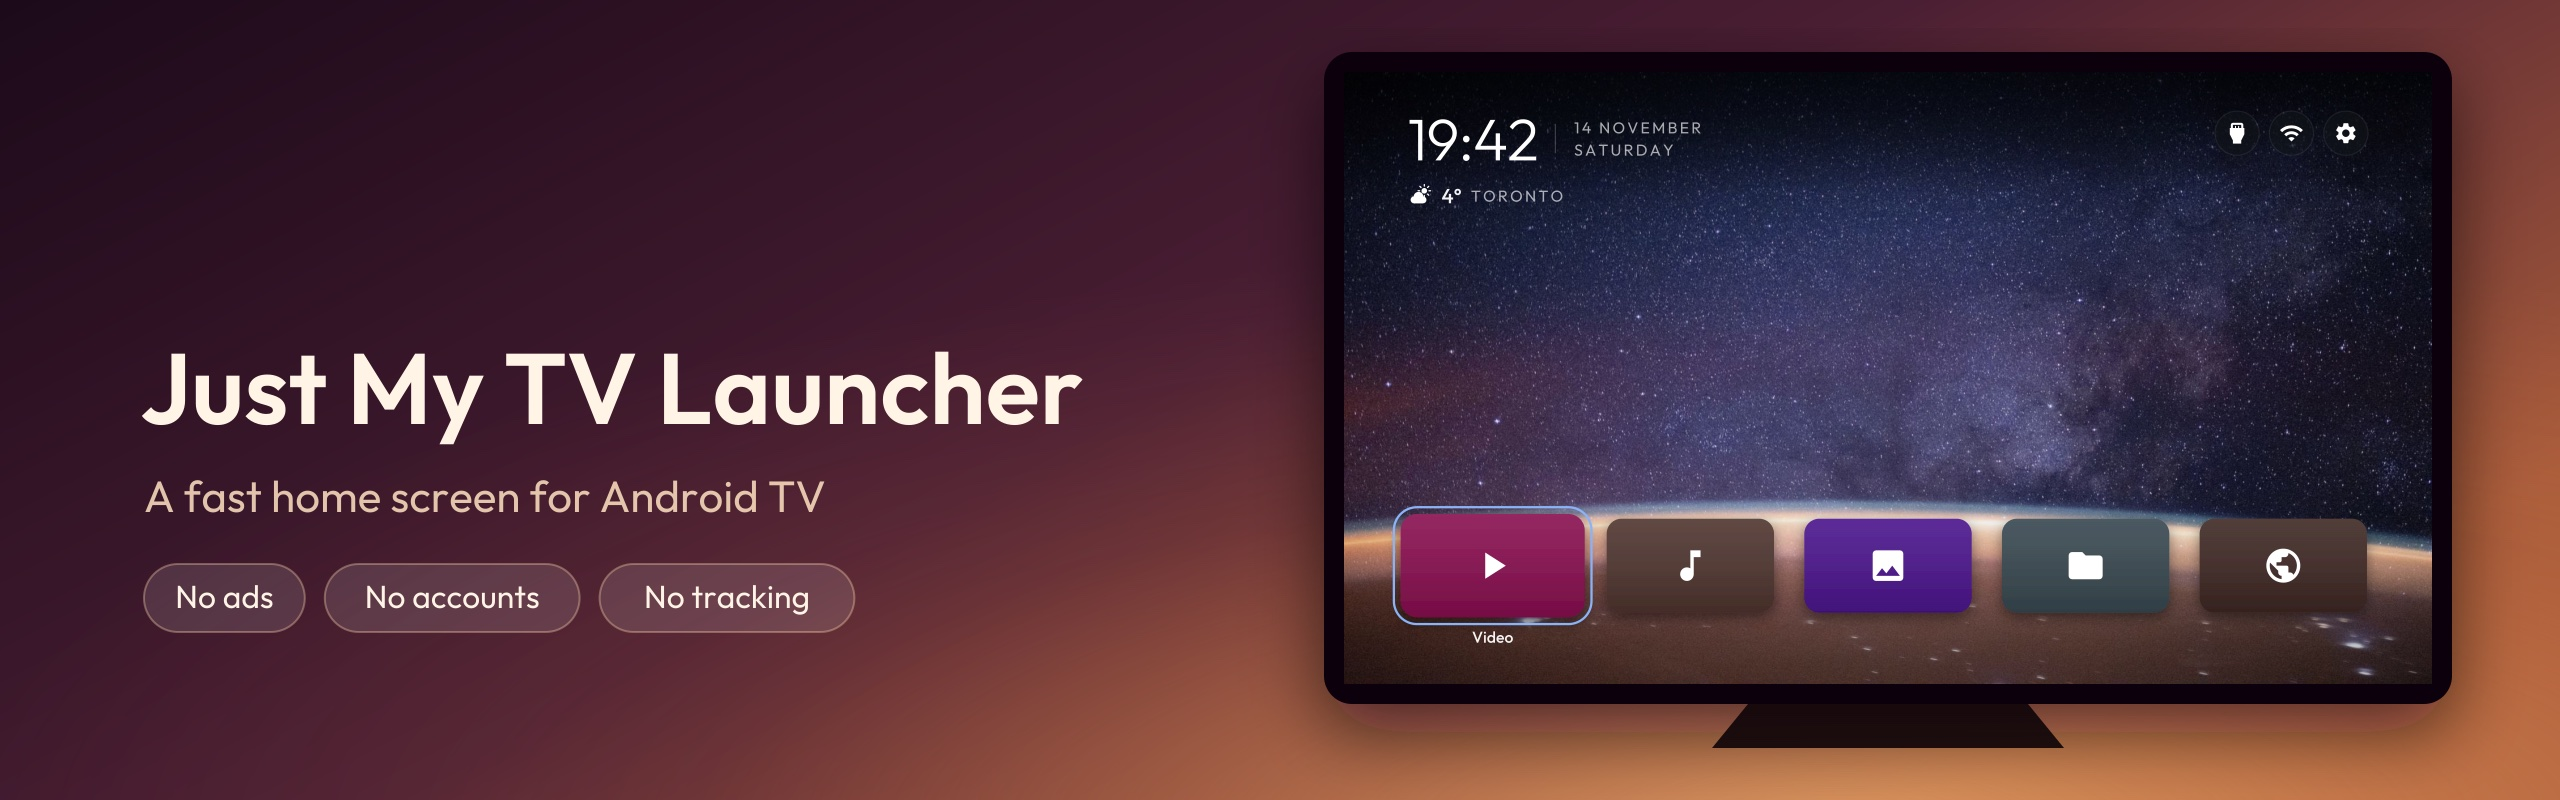
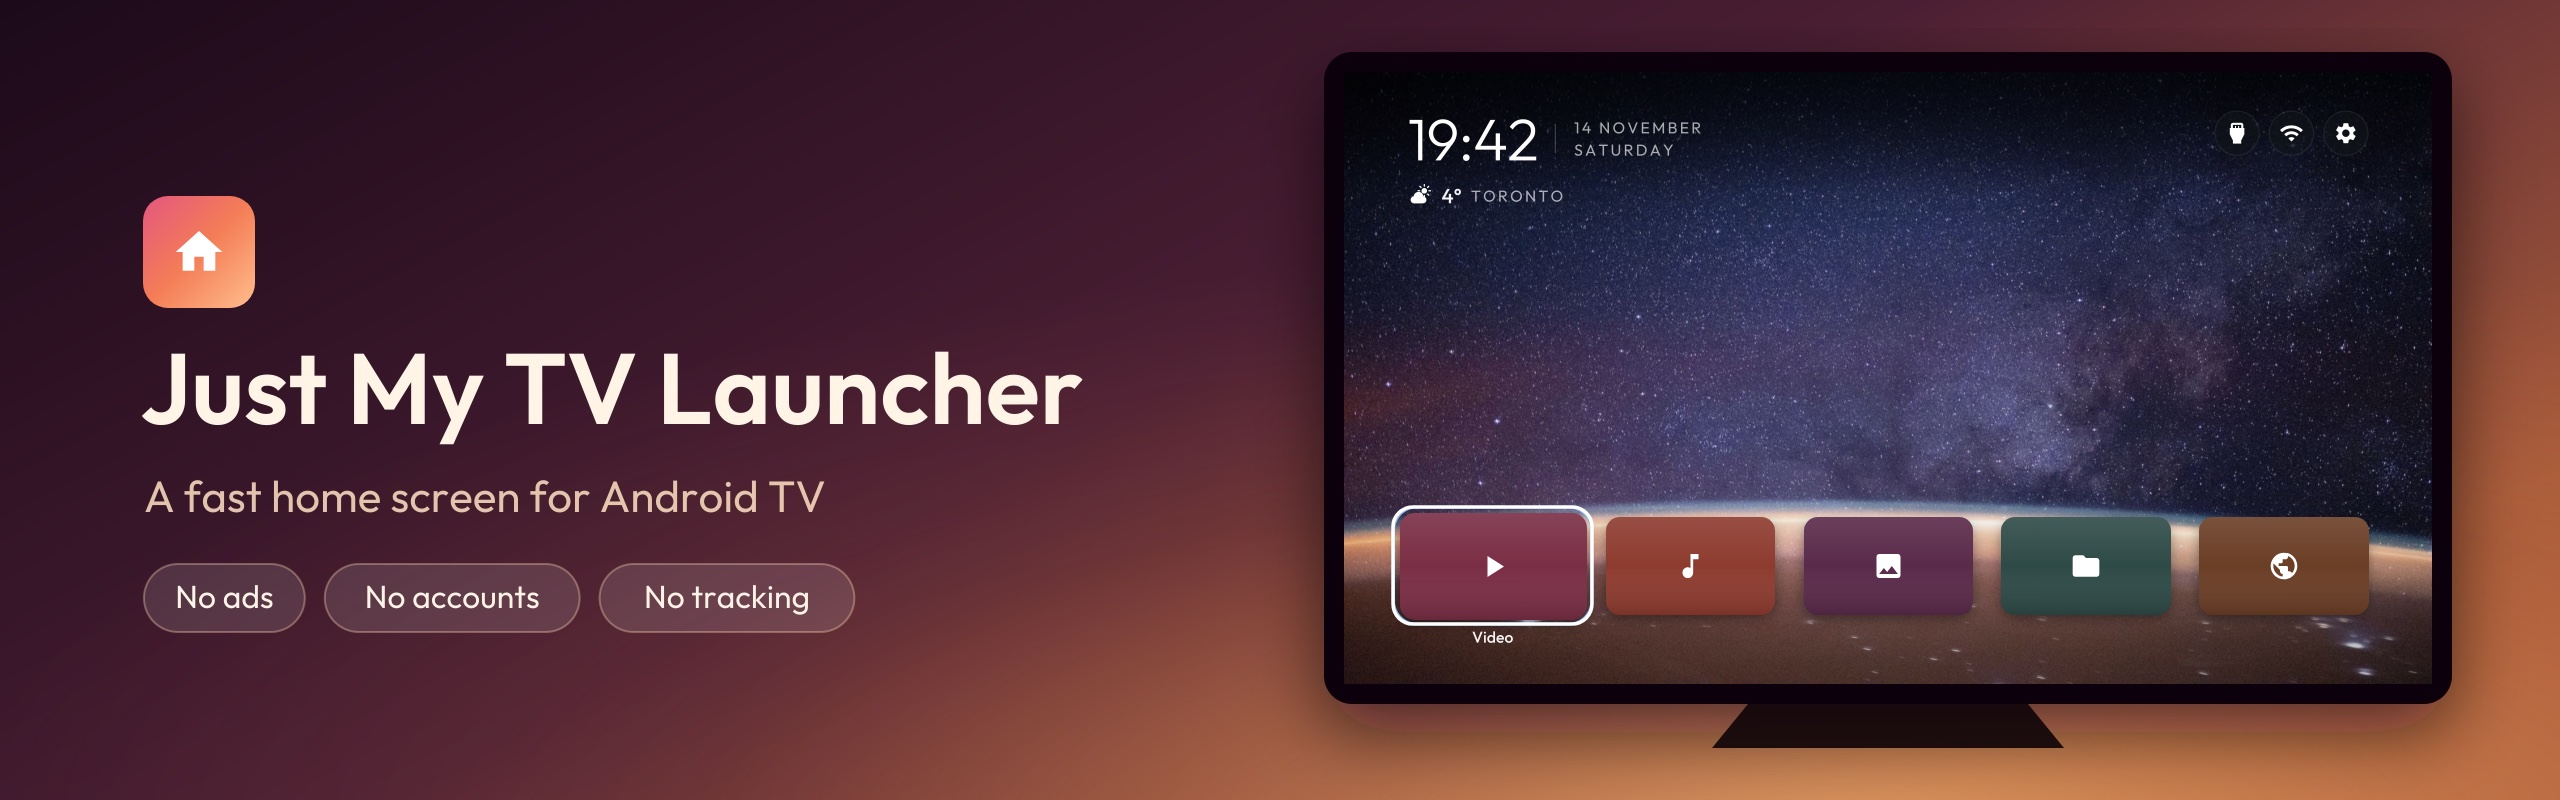
Apply the Sunset colour scheme across the app and the repo
One set of colours (D110). The icon, the TV banner, the README logo and
the social preview use the brand gradient rose #E4577F, coral #F47D56,
peach #FFBE8E (drawable/sunset.xml). The default wallpaper is the deeper
Dusk gradient plum, wine, ember (aurora.xml renamed to dusk.xml), deep
enough for white text. Panels, menus and round buttons take warm
neutrals, the focused row is coral at 22 %, primary text is cream. Move
mode is coral, the stale weather dot peach, "connected" a softer green,
and the tile placeholders a warm palette.

The README pictures are recoloured to match, with the logo in the hero;
docs/images/social-preview.png is for GitHub's settings, uploaded by
hand. The mockup and the user guide follow; the Accent test checks that
Dusk gives a warm ring.

Changed region(s): [[0.5312, 0.625, 0.7812, 0.7812], [0.8438, 0.625, 0.9375, 0.7812], [0.0312, 0.2188, 0.125, 0.4062]]

diff --git a/docs/screen-mockup.html b/docs/screen-mockup.html
@@ -7,8 +7,8 @@
 <style>
   :root {
     color-scheme: dark;
-    --accent: #8AB4F8;
-    --tile: #1C1C1E;
+    --accent: #F47D56;   /* Sunset coral (D110); the real ring follows the wallpaper */
+    --tile: #1F1820;
     --band: rgba(20, 20, 22, .86);
     --panel: rgba(30, 32, 38, .94);
     --text: rgba(255, 255, 255, .95);
@@ -32,7 +32,7 @@
     background:
       radial-gradient(900px 420px at 78% 110%, rgba(128,208,199,.55), transparent 60%),
       radial-gradient(700px 380px at 12% 0%, rgba(19,84,122,.9), transparent 70%),
-      linear-gradient(160deg, #13547A 0%, #2B825B 55%, #80D0C7 100%); }
+      linear-gradient(160deg, #2A1533 0%, #7E3459 55%, #D9714C 100%); }
   .video .tag { position: absolute; right: 16px; top: 250px; font-size: 11px; color: rgba(255,255,255,.6); }
   /* Dimming only at the top (60 % → 0 by 20 %), like ScrimTop in Couchy. */
   .scrim { position: absolute; inset: 0;
@@ -207,7 +207,7 @@
   <tr><td>Bar at rest</td><td>top 386.5 dp, row height 127.5 dp; the next row peeks up 18 dp from below</td><td><code>MainActivity.java:706–709</code>: "push the dock row towards the bottom"</td></tr>
   <tr><td>Rows under the bar</td><td>0 at rest (<code>rows_below_dock</code> = 0); the next row peeks in from below; on Down the grid expands</td><td><code>config.xml:413</code>, "the rest of the grid stays below until you press Down"</td></tr>
   <tr><td>Columns</td><td>5 at 960 dp: tile 147 × 83 dp, radius 13 dp</td><td><code>AppAdapter.java:108–114</code></td></tr>
-  <tr><td>Focus</td><td>scale 1.10, 2 dp ring #8AB4F8</td><td><code>AppCard.kt</code>, <code>AppAdapter.FOCUS_SCALE</code></td></tr>
+  <tr><td>Focus</td><td>scale 1.10, 2 dp ring in a light shade of the wallpaper, white on dark (Sunset coral #F47D56 here)</td><td><code>AppCard.kt</code>, <code>AppAdapter.FOCUS_SCALE</code></td></tr>
   <tr><td>Bar strip</td><td>#141416 at 86 %, radius 26 dp, 22 dp margin on each side, 14 dp at the top and bottom</td><td><code>DockDecoration.java</code></td></tr>
   <tr><td>Bottom edge</td><td>bottom of the screen (540 dp); dimming only at the top</td><td>Couchy <code>ScrimTop</code> (<code>LauncherScreen.kt:118–121</code>)</td></tr>
   <tr><td>Panel</td><td>440 dp, 260 ms slide, 16 dp radius on the left</td><td><code>SettingsSheet.kt:183–199</code> (Couchy)</td></tr>

diff --git a/launcher/app/src/main/java/com/evg4b/justmytv/MainActivity.java b/launcher/app/src/main/java/com/evg4b/justmytv/MainActivity.java
@@ -277,7 +277,7 @@ public class MainActivity extends Activity implements AppAdapter.Listener {
                 ui.post(() -> {
                     if (gen != wallpaperGen) return;
                     if (b != null) poster.setImageBitmap(b);
-                    else poster.setImageResource(R.drawable.aurora);   // the file is gone or unreadable: not black
+                    else poster.setImageResource(R.drawable.dusk);   // the file is gone or unreadable: not black
                 });
             });
         } else if (type.equals("video") && !state.videoUri.isEmpty()) {
@@ -304,7 +304,7 @@ public class MainActivity extends Activity implements AppAdapter.Listener {
      * come); otherwise black, so a video or picture comes up from black, never over the gradient.
      */
     private void resetPoster() {
-        if (showsGradient()) poster.setImageResource(R.drawable.aurora);
+        if (showsGradient()) poster.setImageResource(R.drawable.dusk);
         else poster.setImageDrawable(new ColorDrawable(Color.BLACK));
     }
 
@@ -357,7 +357,7 @@ public class MainActivity extends Activity implements AppAdapter.Listener {
 
     /** Offline, or no clip matches the chosen collection and themes: a still gradient, no requests (PLAN 6.3). */
     private void playAerials(List<String> urls) {
-        if (urls.isEmpty() || !online()) poster.setImageResource(R.drawable.aurora);
+        if (urls.isEmpty() || !online()) poster.setImageResource(R.drawable.dusk);
         else video.startAerials(urls);
     }
 

diff --git a/launcher/app/src/main/java/com/evg4b/justmytv/SidePanel.java b/launcher/app/src/main/java/com/evg4b/justmytv/SidePanel.java
@@ -138,7 +138,7 @@ final class SidePanel {
     // ---- building blocks ----
 
     void title(String text) {
-        TextView t = text(text, 22, 0xF2FFFFFF, R.font.outfit_medium);
+        TextView t = text(text, 22, 0xF2F4F1EE, R.font.outfit_medium);
         t.setPadding(Math.round(12 * d), 0, 0, Math.round(16 * d));
         content.addView(t);
     }
@@ -174,7 +174,7 @@ final class SidePanel {
             lp.setMarginEnd(p);
             row.addView(iv, lp);
         }
-        TextView l = text(label, 17, 0xF2FFFFFF, R.font.outfit_regular);
+        TextView l = text(label, 17, 0xF2F4F1EE, R.font.outfit_regular);
         l.setSingleLine(true);
         l.setEllipsize(android.text.TextUtils.TruncateAt.END);
         row.addView(l, new LinearLayout.LayoutParams(0, ViewGroup.LayoutParams.WRAP_CONTENT, 1f));
@@ -193,7 +193,7 @@ final class SidePanel {
         e.setHint(hint);
         e.setText(text);
         e.setTextSize(TypedValue.COMPLEX_UNIT_SP, 17);
-        e.setTextColor(0xF2FFFFFF);
+        e.setTextColor(0xF2F4F1EE);
         e.setHintTextColor(0x8CFFFFFF);
         e.setTypeface(ctx.getResources().getFont(R.font.outfit_regular));
         e.setBackgroundResource(R.drawable.row_bg);

diff --git a/launcher/app/src/main/java/com/evg4b/justmytv/PhotoWallpaper.java b/launcher/app/src/main/java/com/evg4b/justmytv/PhotoWallpaper.java
@@ -107,7 +107,7 @@ final class PhotoWallpaper {
         }
         if (key.isEmpty()) {   // nothing can be fetched; the kept photo stays, or the gradient
             status = Status.NO_KEY;
-            if (!photo.exists()) poster.setImageResource(R.drawable.aurora);
+            if (!photo.exists()) poster.setImageResource(R.drawable.dusk);
             return;
         }
         String k = key;
@@ -209,7 +209,7 @@ final class PhotoWallpaper {
                 fetching = false;
                 changed.run();
                 if (b != null) show(b, at, true);
-                else if (!photo.exists()) poster.setImageResource(R.drawable.aurora);   // nothing to show: not black
+                else if (!photo.exists()) poster.setImageResource(R.drawable.dusk);   // nothing to show: not black
                 // a rejected key waits for a new one (a new start); the limit resets within the hour
                 if (status != Status.BAD_KEY) {
                     main.postDelayed(tick, b != null ? everyMs : status == Status.LIMIT ? LIMIT_MS : RETRY_MS);

diff --git a/launcher/app/src/test/java/com/evg4b/justmytv/AccentTest.java b/launcher/app/src/test/java/com/evg4b/justmytv/AccentTest.java
@@ -28,7 +28,16 @@ public class AccentTest {
         assertTrue(r < g && g < b && r >= 130);   // light, not the deep blue itself
     }
 
-    @Test public void auroraGivesTeal() {   // the gradient's three colours (res/drawable/aurora.xml)
+    @Test public void duskGivesARose() {   // the default wallpaper's three colours (res/drawable/dusk.xml)
+        int[] p = fill(0xFF2A1533);
+        Arrays.fill(p, p.length / 3, 2 * p.length / 3, 0xFF7E3459);
+        Arrays.fill(p, 2 * p.length / 3, p.length, 0xFFD9714C);
+        int c = Accent.of(p);
+        int r = (c >> 16) & 0xFF, g = (c >> 8) & 0xFF, b = c & 0xFF;
+        assertTrue(r == 255 && r > g && r > b);   // warm: red leads
+    }
+
+    @Test public void tealStaysTeal() {   // the old Aurora gradient: a cool wallpaper still gives a cool ring
         int[] p = fill(0xFF13547A);
         Arrays.fill(p, p.length / 3, 2 * p.length / 3, 0xFF2B825B);
         Arrays.fill(p, 2 * p.length / 3, p.length, 0xFF80D0C7);

diff --git a/launcher/app/src/main/java/com/evg4b/justmytv/AppAdapter.java b/launcher/app/src/main/java/com/evg4b/justmytv/AppAdapter.java
@@ -31,9 +31,9 @@ final class AppAdapter extends RecyclerView.Adapter<AppAdapter.Holder> {
     }
 
     /** Tile colours for apps without a banner (PLAN 5.3). */
-    private static final int[] PALETTE = {0xFF37474F, 0xFF4E342E, 0xFF1B5E20, 0xFF0D47A1, 0xFF4A148C,
-            0xFF880E4F, 0xFF3E2723, 0xFF263238, 0xFF33691E};
-    private static final int BANNER_BG = 0xFF1C1C1E;
+    private static final int[] PALETTE = {0xFF5A2A4A, 0xFF7A2E45, 0xFF8E3B2F, 0xFF6B3E26, 0xFF7A4A2A,   // Sunset tiles (D110)
+            0xFF3E2A4F, 0xFF4A3B35, 0xFF2F3A4A, 0xFF2E4A47};
+    private static final int BANNER_BG = 0xFF1F1820;
 
     private final GridMetrics m;
     private final int columns;

diff --git a/launcher/app/src/main/java/com/evg4b/justmytv/FocusGlass.java b/launcher/app/src/main/java/com/evg4b/justmytv/FocusGlass.java
@@ -83,10 +83,10 @@ final class FocusGlass {
         ring.setCornerRadius(cornerPx * GridMetrics.FOCUS_SCALE + pad);
     }
 
-    /** Move mode shows an amber ring instead of the accent. */
+    /** Move mode shows a coral ring instead of the accent. */
     void setMoving(boolean moving) {
         this.moving = moving;
-        ring.setStroke(stroke, moving ? 0xFFFFB74D : shownColor);
+        ring.setStroke(stroke, moving ? 0xFFF47D56 : shownColor);
     }
 
     /** The accent follows what is on screen: a wallpaper drawable, or a frame of the video. */

diff --git a/launcher/app/src/main/java/com/evg4b/justmytv/Screens.java b/launcher/app/src/main/java/com/evg4b/justmytv/Screens.java
@@ -459,6 +459,6 @@ final class Screens {
             if (Inputs.switchTo(a, r.id)) panel.close();
             else Toast.makeText(a, R.string.input_not_opened, Toast.LENGTH_SHORT).show();
         });
-        v.setTextColor(r.state == 0 ? 0xFF66BB6A : r.state == 1 ? 0xFF9E9E9E : 0x40FFFFFF);
+        v.setTextColor(r.state == 0 ? 0xFF7CC08A : r.state == 1 ? 0xFF9E9E9E : 0x40FFFFFF);
     }
 }

diff --git a/launcher/app/src/main/java/com/evg4b/justmytv/VideoWallpaper.java b/launcher/app/src/main/java/com/evg4b/justmytv/VideoWallpaper.java
@@ -275,7 +275,7 @@ final class VideoWallpaper {
             player.release();
             player = null;
         }
-        if (aerials != null) poster.setImageResource(R.drawable.aurora);   // no aerial plays: a still gradient, not black
+        if (aerials != null) poster.setImageResource(R.drawable.dusk);   // no aerial plays: a still gradient, not black
         showPoster();
     }
 }

diff --git a/launcher/app/src/main/java/com/evg4b/justmytv/TileMenu.java b/launcher/app/src/main/java/com/evg4b/justmytv/TileMenu.java
@@ -51,7 +51,7 @@ final class TileMenu {
         TextView t = new TextView(ctx);
         t.setText(text);
         t.setTextSize(TypedValue.COMPLEX_UNIT_SP, 17);
-        t.setTextColor(0xF2FFFFFF);
+        t.setTextColor(0xF2F4F1EE);
         t.setTypeface(ctx.getResources().getFont(R.font.outfit_regular));
         t.setGravity(Gravity.CENTER_VERTICAL);
         t.setSingleLine(true);

diff --git a/docs/DECISIONS.md b/docs/DECISIONS.md
@@ -181,3 +181,4 @@ Decisions taken while fixing the review findings in PLAN v2. None of them change
 | D107 | Remote actions reworked. Launcher settings and Inputs start a Home intent (MAIN + HOME, our package, an extra naming the panel) and toggle the panel, as the Menu key does; a plain Home press with Home in front closes the panel and ends Move mode; Network and Wi-Fi, Picture and Sound settings fall back to the TV's main settings when the page is missing; Mute goes through `adjustSuggestedStreamVolume`, the path of the remote's own Mute key; Play / pause events carry real timestamps. **Revises D106** | An explicit intent to the Home activity gets the standard activity type, so `singleTask` cannot reuse the Home instance: each press made a second launcher in its own task. A second press now closes what the first opened. Found by code review; on the TV (T20) one record stays after the action from another app | PLAN 7.8 |
 | D108 | The network icon at the top right shows only when there is a problem: no default network, or one without `NET_CAPABILITY_VALIDATED` (no internet, captive portal). It is a crossed-out Wi-Fi and opens the Wi-Fi settings; working Ethernet counts as fine. An icon that hides while focused hands the focus to the grid | The owner: a clean Home while the network works, a direct way to the settings when it does not | PLAN 7.1 |
 | D109 | Appearance → Settings icon (Shown / Hidden), offered only while a remote button is assigned Launcher settings; otherwise the row says Unavailable and explains why. The gear is shown anyway while no button opens the settings or the remote button service is not bound, and removing the last such assignment resets the option | The owner: less clutter, but the settings must never be out of reach. This TV stops running the service after an app update (T19), so a hidden gear depends on it running | PLAN 7.1, 7.8, 10.1 |
+| D110 | The Sunset colour scheme, one set of colours across the app and the repo. Brand gradient rose `#E4577F` → coral `#F47D56` → peach `#FFBE8E` (`drawable/sunset.xml`) behind the icon, the banner, `docs/images/logo.svg` and the social preview. The default wallpaper is the deeper Dusk gradient plum `#2A1533` → wine `#7E3459` → ember `#D9714C` (`drawable/dusk.xml`, was `aurora.xml`). Warm neutrals: panel and menus `#1F1820`, round buttons `#18121A`, primary text cream `#F4F1EE`; the focused row in panels and menus is coral at 22 %. Signals: Move ring coral, the stale weather dot peach `#FFBE8E`, connected green `#7CC08A`. Tile placeholders `#5A2A4A #7A2E45 #8E3B2F #6B3E26 #7A4A2A #3E2A4F #4A3B35 #2F3A4A #2E4A47`. The focus ring keeps following the wallpaper and is white on a dark one. **Revises D58, D83** | The owner: a recognisable look with peach, orange and rose. The wallpaper is deeper than the brand gradient so the white clock and labels stay readable. The README pictures were recoloured to match; GitHub's social preview (`docs/images/social-preview.png`) is uploaded by hand in the repository settings | PLAN 11.2, 11.3 |

diff --git a/docs/USER-GUIDE.md b/docs/USER-GUIDE.md
@@ -21,7 +21,7 @@ Back on the home screen does nothing. There is nowhere to go back to.
 Hold OK on a tile to open its menu:
 
 - Open starts the app.
-- Move puts an amber ring around the tile. Move it with the arrows and press OK to put it down, or Back to put it
+- Move puts a coral ring around the tile. Move it with the arrows and press OK to put it down, or Back to put it
   back where it was.
 - Hide removes the tile from the grid, and a message says where to find it: Settings → Apps brings it back.
 - App details opens the system page for the app, where you can force stop, clear data or uninstall it.
